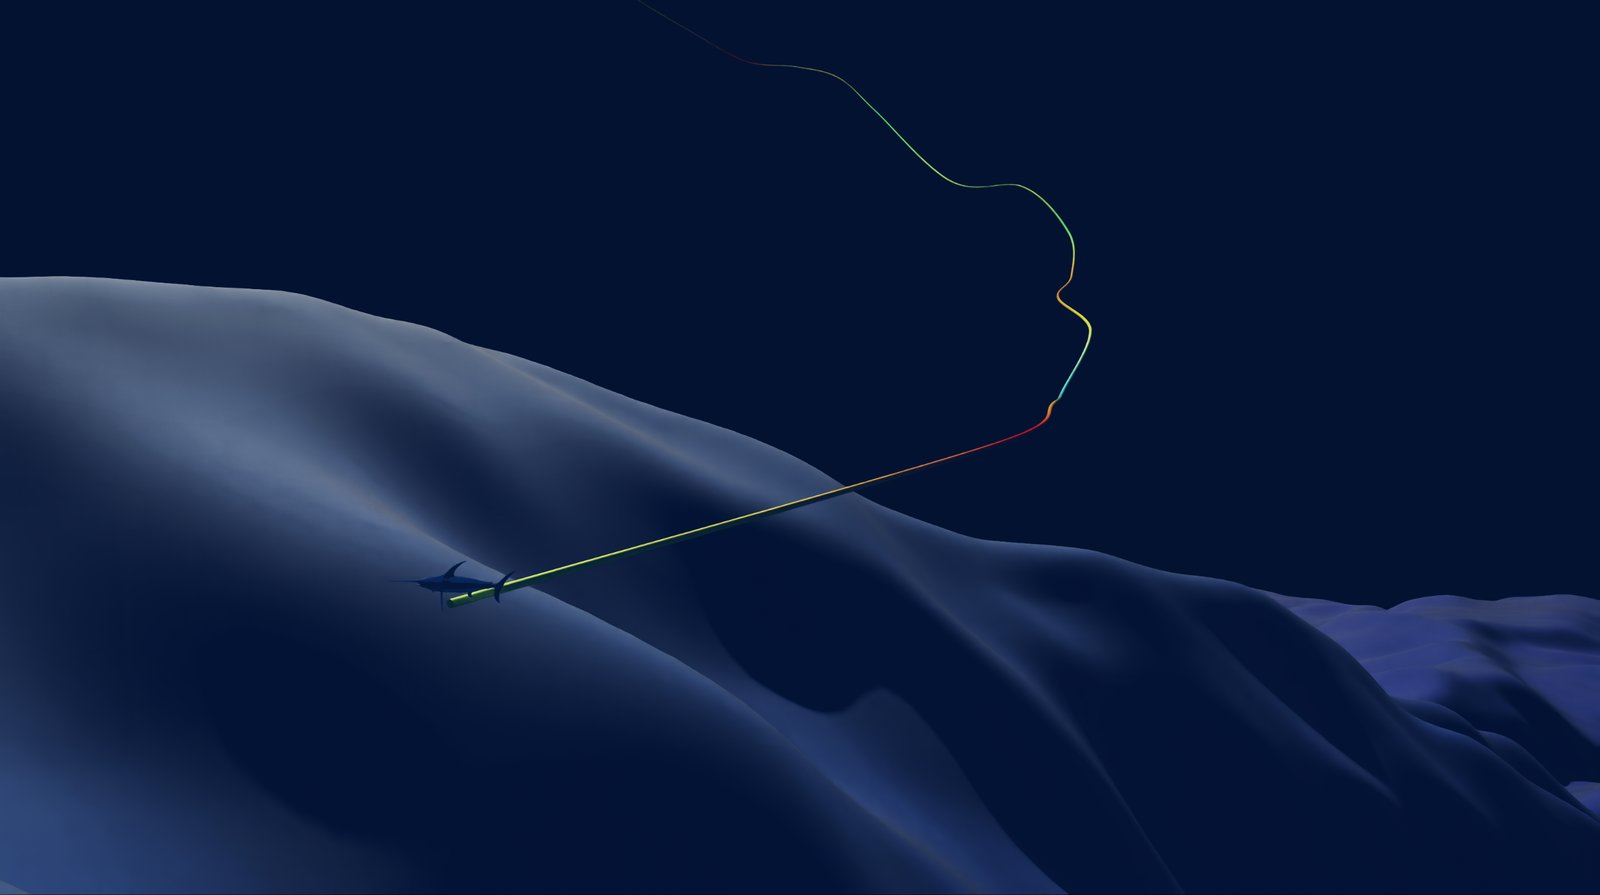
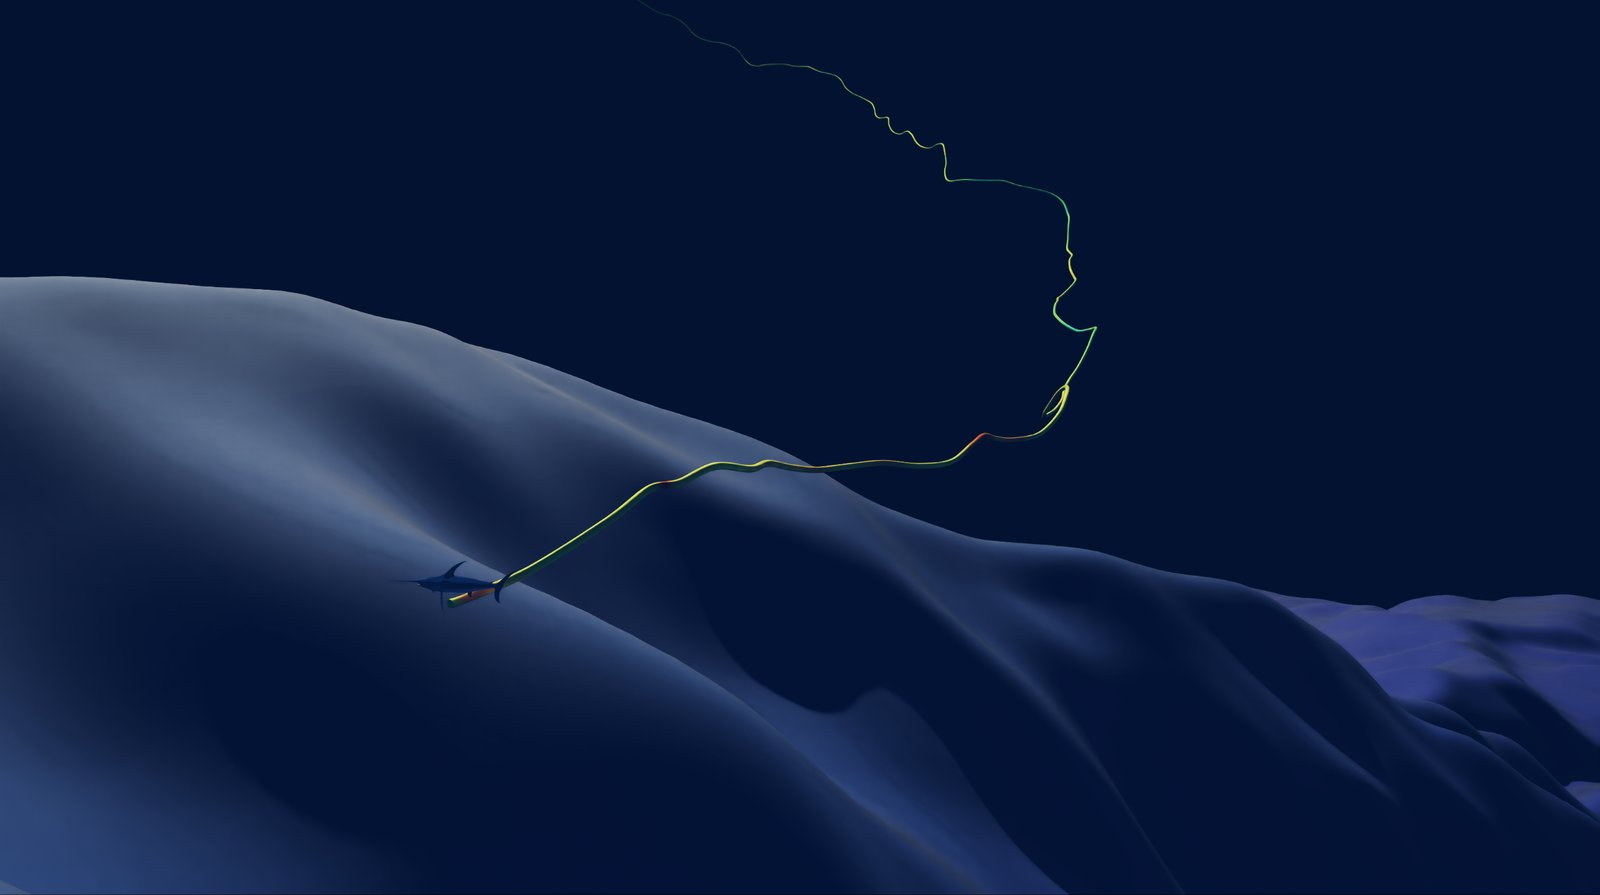
fix(viz): build live trails from every sample, smoothed over 2 s
The trail took one point per rendered frame, so a slow or stalled frame at a
fast replay drew a straight chord across the skipped track. Fill it from the
received history each frame instead (with ODBA, now kept in the history), and
stop the pose update adding a newer point first, which made the next frame skip
the samples in between. Average position and ODBA over 2 s of record time
(look/trailSmoothingS) so the sensor's depth steps and per-sample ODBA do not
saw-tooth and stripe the tube. GET /agent/animals reports trail_samples:
RED001 now has every received sample in its trail at 120x and uncorked.
Retake the README canyon image with the fixed trail.

Collaborated with Claude Code (Opus 5.5).

diff --git a/omniverse/extensions/whoimpg.biologger.subscriber/whoimpg/biologger/subscriber/extension.py b/omniverse/extensions/whoimpg.biologger.subscriber/whoimpg/biologger/subscriber/extension.py
@@ -87,6 +87,9 @@ def _find_repo_root() -> Path:
 
 REPO_ROOT = _find_repo_root()
 LOOK_SETTINGS = "/exts/whoimpg.biologger.subscriber/look"
+# Trail position and ODBA averaged over this many record seconds (0: every sample)
+TRAIL_SMOOTHING_SETTING = f"{LOOK_SETTINGS}/trailSmoothingS"
+DEFAULT_TRAIL_SMOOTHING_S = 2.0
 
 HUD_WINDOW_X_POS = 50
 HUD_WINDOW_Y_POS = 90
@@ -639,6 +642,9 @@ class CreateSetupExtension(omni.ext.IExt):
         self._trail_prim_path = "/World/Trails"
         self._last_trail_update_ms = 0.0
         self._trail_segment_size = 5000
+        # Live mode builds trails from the received history (every sample), not from the
+        # poses shown on rendered frames; see _backfill_trail_gaps
+        self._trail_from_history = False
         self._trail_width_cm = 5.0  # see set_trail_width
         # Out of follow mode the width tracks the camera's distance (view_scale), until a
         # width is set by hand; follow mode keeps the close-up width
@@ -1764,7 +1770,7 @@ class CreateSetupExtension(omni.ext.IExt):
                     except IndexError:
                         pass  # Buffer might be empty or malformed logic
 
-                if should_append:
+                if should_append and not self._trail_from_history:
                     trail_state["buffer"].append((ts, Gf.Vec3f(target_pos), target_rot_quat, odba))
 
                 # Segment Baking (Infinite Trail Logic)
@@ -1949,7 +1955,7 @@ class CreateSetupExtension(omni.ext.IExt):
                         last_ts = trail_state["buffer"][-1][0]
                         if ts <= last_ts:
                             should_append = False
-                    if should_append:
+                    if should_append and not self._trail_from_history:
                         trail_state["buffer"].append(
                             (ts, Gf.Vec3f(target_pos), target_rot_quat, odba)
                         )
@@ -2080,26 +2086,21 @@ class CreateSetupExtension(omni.ext.IExt):
             "ts": query_time,
         }
 
-    def _backfill_trail_gaps(self, stage: Usd.Stage, start_time: float, end_time: float) -> None:
+    def _backfill_trail_gaps(
+        self, stage: Usd.Stage, start_time: float | None, end_time: float
+    ) -> None:
         """
-        Manually append skipped history points to the trail buffer during high-speed Catch-Up.
-        Ensures trails appear solid.
+        Appends received history samples to the trail buffers, so the trail holds every sample
+        rather than only the poses shown on rendered frames. Used during Catch-Up and, with
+        ``start_time`` None (from each trail's last sample), every live frame: a slow or
+        stalled frame at a fast replay would otherwise draw a straight chord across the
+        skipped stretch of track.
         """
+        import bisect
+
         for eid, hist in self._entity_history.items():
-            if not hist["times"]:
-                continue
-
             times = hist["times"]
-
-            # Efficient slice: Find start/end indices
-            import bisect
-
-            # Find first index > start_time
-            idx_start = bisect.bisect_right(times, start_time)
-            # Find last index <= end_time
-            idx_end = bisect.bisect_right(times, end_time)
-
-            if idx_start >= idx_end:
+            if not times:
                 continue
 
             # Get Trail Buffer
@@ -2107,6 +2108,19 @@ class CreateSetupExtension(omni.ext.IExt):
                 eid, {"buffer": [], "hue": (eid * 137) % 360.0, "segment_count": 0}
             )
             buffer = trail_state["buffer"]
+
+            # The listener thread appends each sample's fields one list at a time; read only
+            # samples whose fields have all arrived
+            complete = min(len(times), len(hist["pos"]), len(hist["rot"]), len(hist["odba"]))
+            start = start_time
+            if start is None:
+                start = buffer[-1][0] if buffer else float("-inf")
+            # Find first index > start, and last index <= end_time
+            idx_start = bisect.bisect_right(times, start, 0, complete)
+            idx_end = bisect.bisect_right(times, end_time, 0, complete)
+
+            if idx_start >= idx_end:
+                continue
 
             # Iterate and Transform
             for i in range(idx_start, idx_end):
@@ -2131,10 +2145,7 @@ class CreateSetupExtension(omni.ext.IExt):
                     # Rotation
                     target_rot_quat = self._compute_orientation(r, is_euler=True)
 
-                    # ODBA assumed 0.0 for trail color logic optimization
-                    odba = 0.0
-
-                    buffer.append((ts, target_pos, target_rot_quat, odba))
+                    buffer.append((ts, target_pos, target_rot_quat, float(hist["odba"][i])))
 
                 except (IndexError, TypeError):
                     continue
@@ -2223,7 +2234,14 @@ class CreateSetupExtension(omni.ext.IExt):
                     self._timeline.set_end_time(rel_time)
                     self._last_timeline_ui_update = now
 
-                # 3. Apply WARP or CPU Updates from LATEST DATA
+                # 3. Give the trail every sample received since the last frame, not just the
+                # latest pose. The pose updates below then leave the trail alone: one newer
+                # than this backfill would make the next frame's backfill skip the samples
+                # in between.
+                self._trail_from_history = not self._safe_mode
+                self._backfill_trail_gaps(stage, None, self._latest_timestamp)
+
+                # 4. Apply WARP or CPU Updates from LATEST DATA
                 if self._backend == "warp" and wp is not None:
                     self._update_prim_batched_warp(stage)
                 else:
@@ -2254,6 +2272,7 @@ class CreateSetupExtension(omni.ext.IExt):
 
             else:
                 # --- TIMELINE / REPLAY MODE (Or Catch-Up) ---
+                self._trail_from_history = False
                 # 1. Read Timeline Time (Relative)
                 time_code = self._timeline.get_current_time()
 
@@ -3242,9 +3261,40 @@ class CreateSetupExtension(omni.ext.IExt):
         out.append(buffer[-1])
         return out
 
+    @staticmethod
+    def _average_per_time(buffer: list, window_s: float) -> list:
+        """Averages samples (position and ODBA) over windows of ``window_s`` record seconds.
+
+        The trail holds every sample, so without this it shows the depth sensor's steps as a
+        saw-tooth (worse under vertical exaggeration) and stripes with per-sample ODBA. Windows
+        are aligned to record time, so neighbouring segments and re-renders agree, and the
+        first and last samples are kept exactly so the trail still meets the animal.
+        """
+        if window_s <= 0 or len(buffer) < 3:
+            return list(buffer)
+        out = [buffer[0]]
+        group: list = []
+        for p in buffer[1:-1]:
+            if group and math.floor(p[0] / window_s) != math.floor(group[0][0] / window_s):
+                n = len(group)
+                mean = sum((g[1] for g in group), Gf.Vec3f(0, 0, 0)) / n
+                out.append((group[n // 2][0], mean, group[0][2], sum(g[3] for g in group) / n))
+                group = []
+            group.append(p)
+        if group:
+            n = len(group)
+            mean = sum((g[1] for g in group), Gf.Vec3f(0, 0, 0)) / n
+            out.append((group[n // 2][0], mean, group[0][2], sum(g[3] for g in group) / n))
+        out.append(buffer[-1])
+        return out
+
     def _render_curve(
         self, stage: Usd.Stage, path: str, visual_buffer: list, base_hue: float
     ) -> None:
+        smoothing = self._settings.get(TRAIL_SMOOTHING_SETTING)
+        visual_buffer = self._average_per_time(
+            visual_buffer, DEFAULT_TRAIL_SMOOTHING_S if smoothing is None else float(smoothing)
+        )
         visual_buffer = self._average_per_width(visual_buffer, self._trail_width_cm)
         points = [self._exaggerated(p[1]) for p in visual_buffer]
         colors = []
@@ -3904,6 +3954,7 @@ class CreateSetupExtension(omni.ext.IExt):
                                     "times": [],
                                     "pos": [],  # List of (px, py, depth)
                                     "rot": [],  # List of (r, p, h) or quat
+                                    "odba": [],  # for the trail colour
                                 }
 
                             hist = self._entity_history[eid]
@@ -3922,6 +3973,7 @@ class CreateSetupExtension(omni.ext.IExt):
                                 rot = message.get("rot", [0, 0, 0])
                                 # Ensure we store consistent type (list/tuple)
                                 hist["rot"].append(tuple(rot) if rot else (0.0, 0.0, 0.0))
+                                hist["odba"].append(float(phys_data.get("odba", 0.0) or 0.0))
 
                                 # Update Timeline Range (Throttle to avoid API spam)
                                 if self._live_sync_active and self._packet_count % 10 == 0:

diff --git a/omniverse/extensions/whoimpg.biologger.subscriber/whoimpg/biologger/subscriber/agent_control.py b/omniverse/extensions/whoimpg.biologger.subscriber/whoimpg/biologger/subscriber/agent_control.py
@@ -10,7 +10,8 @@ desktop window. Routes are served under /agent on the app's services port
   GET  /agent/status                 active animal, follow mode, camera
                                      (scene routes return 503 until the stage is loaded)
   GET  /agent/animals                streamed entities (eid, species, prim path) and samples
-                                     received, with gaps and an estimate of samples missing
+                                     received, with gaps, an estimate of samples missing and
+                                     the samples in the trail
   POST /agent/animal  {eid}          make an entity the active animal
   POST /agent/follow  {enabled}      toggle 3rd-person follow mode
   GET  /agent/view                   active camera eye and forward vector
@@ -123,6 +124,18 @@ def sample_stats(times: list[float]) -> dict[str, Any]:
     }
 
 
+def trail_samples(trail_state: dict[str, Any] | None) -> int:
+    """Distinct samples in an animal's trail: baked segments plus the active one.
+
+    Each segment after the first starts with the previous segment's last sample.
+    """
+    if not trail_state:
+        return 0
+    baked = trail_state.get("baked", {})
+    total = len(trail_state.get("buffer", [])) + sum(len(b) for b in baked.values())
+    return max(0, total - len(baked))
+
+
 def _stage() -> Usd.Stage:
     stage = omni.usd.get_context().get_stage()
     if stage is None or get_active_viewport() is None:
@@ -209,6 +222,7 @@ def register(ext: CreateSetupExtension) -> Any:
                     "species": s.get("sp"),
                     "path": s.get("path"),
                     **sample_stats(ext._entity_history.get(eid, {}).get("times", [])),
+                    "trail_samples": trail_samples(ext._entities_trail_buffers.get(eid)),
                 }
                 for eid, s in sorted(ext._entities_state.items())
             ]

diff --git a/docs/source/visualization/scene.rst b/docs/source/visualization/scene.rst
@@ -113,9 +113,11 @@ Trail
 -----
 
 The trail is a matte tube along the track, coloured by overall dynamic body acceleration
-(ODBA), a proxy for effort. Where the trail is thinned for display, ODBA is averaged over
-each block, and position and ODBA are also averaged over each tube width of track, so a
-wide overview trail shows the mean path and mean effort. In Follow Mode the tube is 5 cm
+(ODBA), a proxy for effort. It is built from every sample received, not from the poses
+shown on rendered frames, so a fast replay or a slow frame does not cut corners. Position
+and ODBA are averaged over 2 s of record time (``look/trailSmoothingS``; 0 shows every
+sample, with the depth sensor's steps and per-sample ODBA), and again over each tube width
+of track, so a wide overview trail shows the mean path and mean effort. In Follow Mode the tube is 5 cm
 wide; out of it, the width follows the camera's distance (see :doc:`controls`).
 
 Vertical Exaggeration
@@ -160,6 +162,9 @@ at run time with ``POST /agent/settings`` followed by ``POST /agent/look``.
      - 40
      - Horizontal visibility below the surface, in metres. The renderer's distance fog
        changes little beyond a few hundred metres.
+   * - ``look/trailSmoothingS``
+     - 2
+     - Record seconds the trail's position and ODBA are averaged over (0: every sample).
    * - ``look/seafloorInSitu``
      - false
      - Seafloor colour for a camera down in the canyons (see In-Situ Seafloor).
